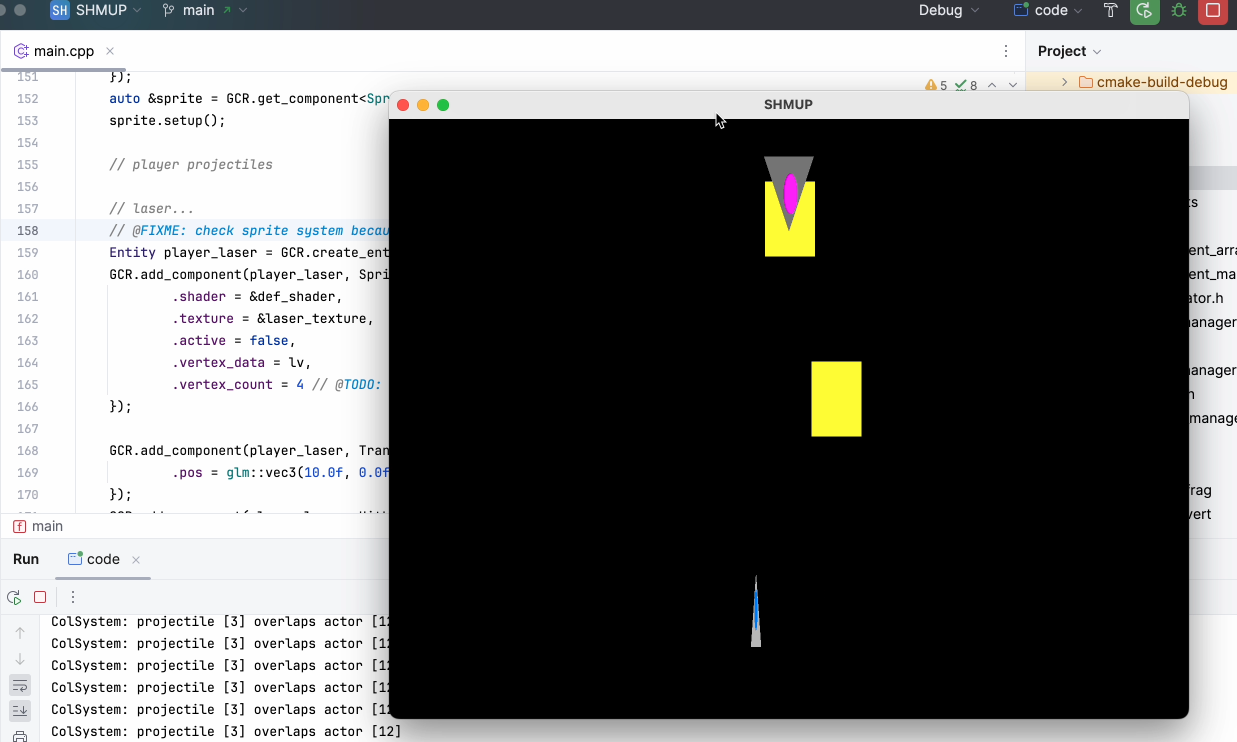
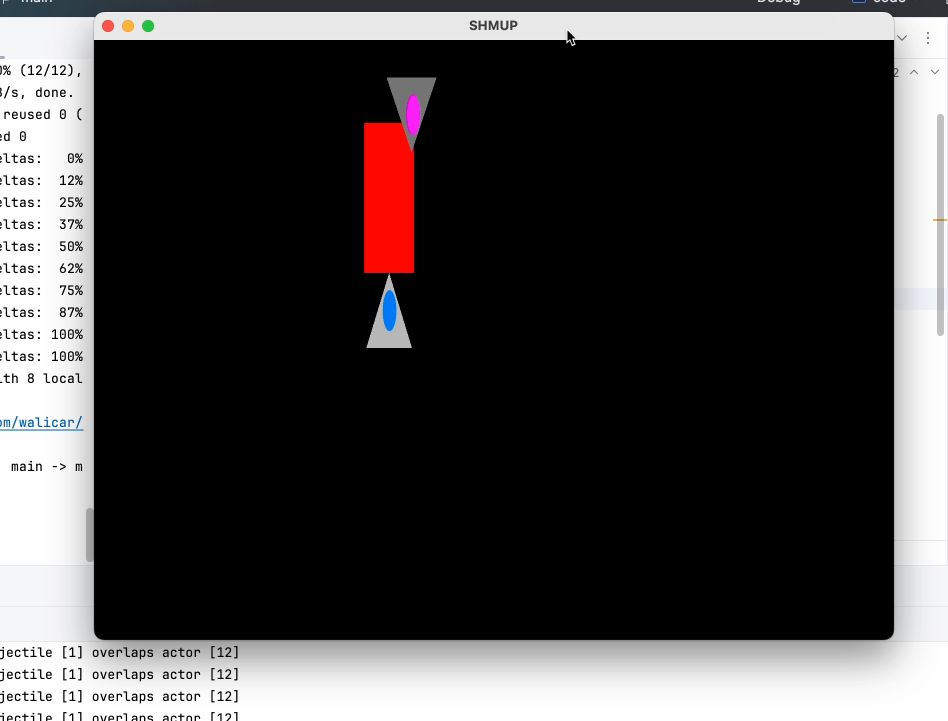
update images to gd doc

diff --git a/doc/game_design.md b/doc/game_design.md
@@ -117,10 +117,10 @@ A level will consist of several checkpoints, the requirement to progress is to d
 
 ____
 
-The player shooting bullets at an enemy ship
+The player firing its laser at an enemy ship
 
 ![img/alpha1.png](img/alpha1.png)
 
-The player firing its laser at an enemy ship
+The player hitting the enemy ship with a bullet while dodging an enemy bullet (light yellow)
 
 ![img/alpha2.png](img/alpha2.png)
